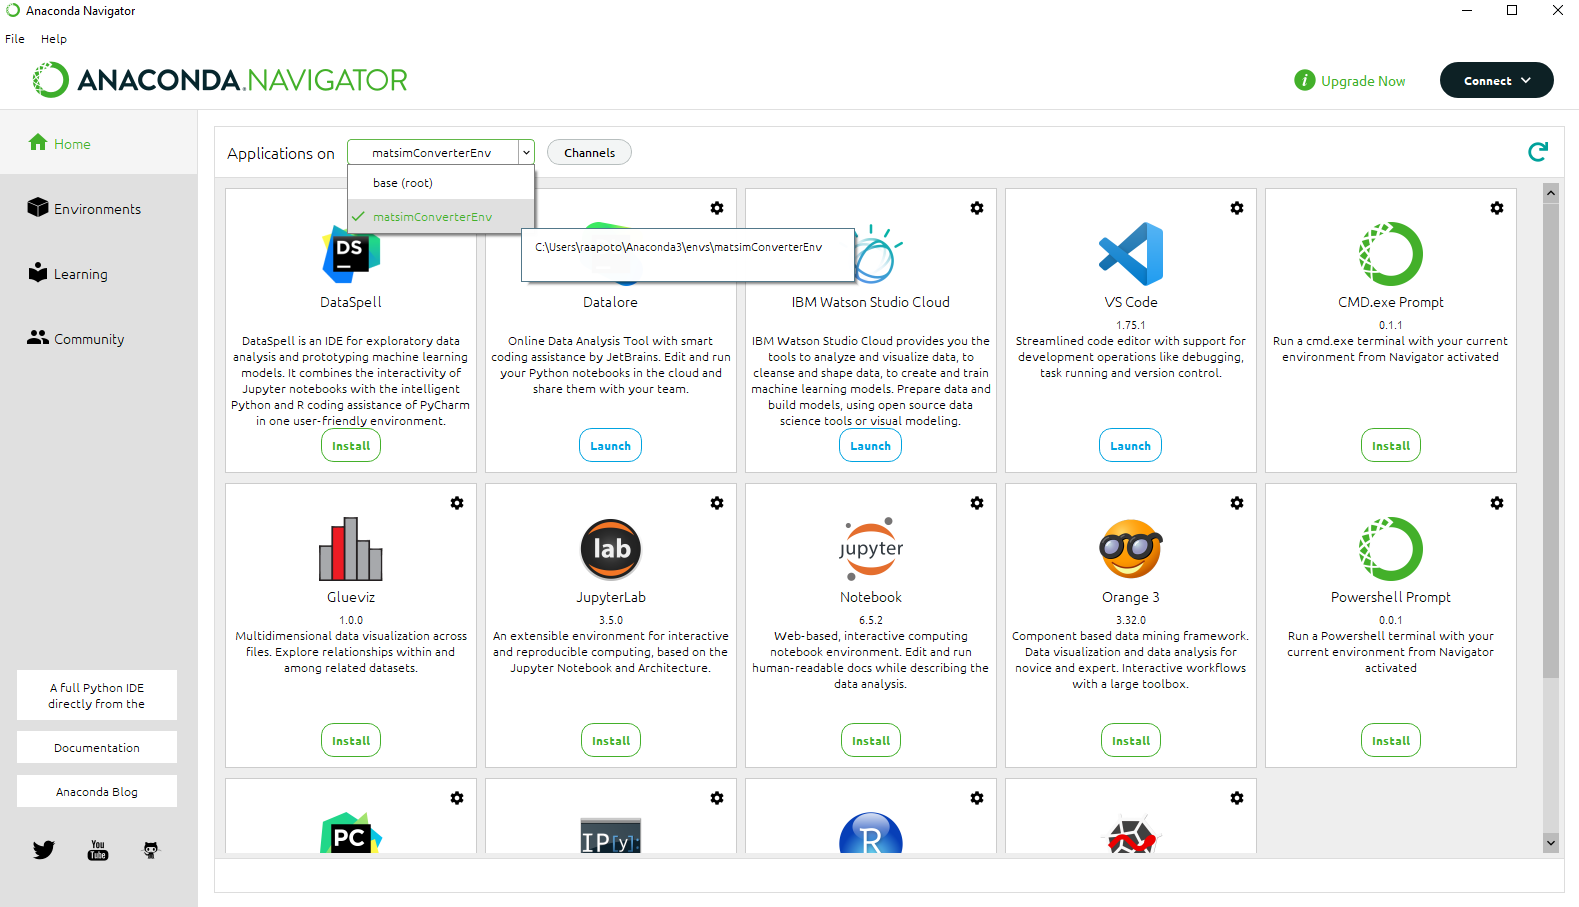
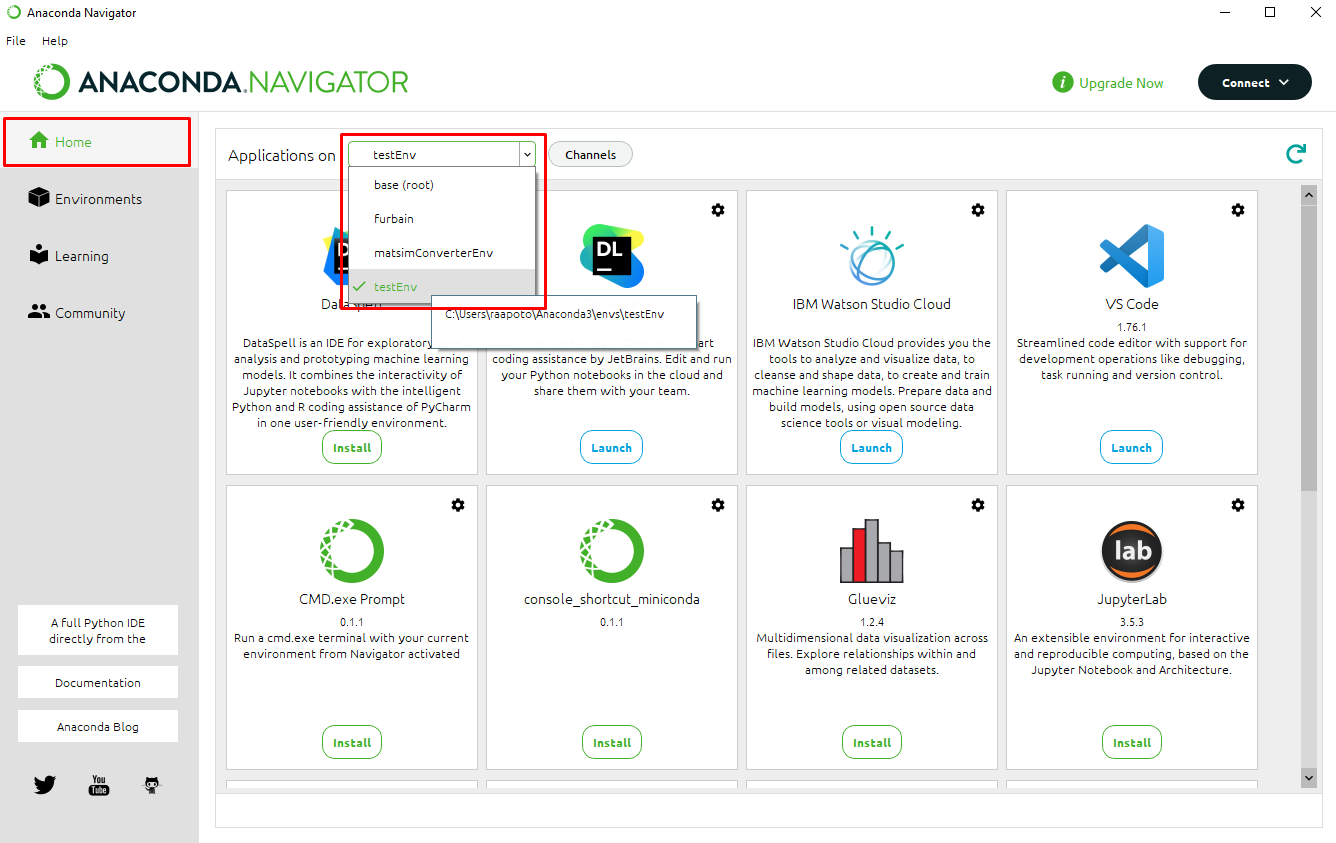
Updated the getting started section in the documentation

diff --git a/docs/getting-started.md b/docs/getting-started.md
@@ -54,7 +54,7 @@ ___
 
 {% endmethod %}
 
-#### Step 3: Create a database with a backup file
+#### Step 3: Create a database
 
 {% method %}
 
@@ -72,29 +72,6 @@ ___
 ![Postgre create database](https://raw.githubusercontent.com/gabRpt/matsim-output-postgreSQL-converter/main/resources/docs/getting-started/postgre_create_db_2.png)
 
 {% endmethod %}
-{% method %}
-
-* Right-click on the new database and select "Restore...".
-{% common %}
-![Postgre restore database](https://raw.githubusercontent.com/gabRpt/matsim-output-postgreSQL-converter/main/resources/docs/getting-started/postgre_restore_1.png)
-
-{% endmethod %}
-{% method %}
-
-* In the "Restore" window, select "Custom or tar" as the format and click in the field below to browse for the backup file.
-
-* Navigate to the directory where the backup file is located (./resources/setup/[databaseBackupPostgresCustom](https://github.com/gabRpt/matsim-output-postgreSQL-converter/blob/main/resources/setup/databaseBackupPostgresCustom "databaseBackupPostgresCustom")) and select the backup file.
-{% common %}
-![Postgre restore database](https://raw.githubusercontent.com/gabRpt/matsim-output-postgreSQL-converter/main/resources/docs/getting-started/postgre_restore_2.png)
-
-{% endmethod %}
-{% method %}
-
-* Click "Restore" to restore the database from the backup file.
-{% common %}
-![Postgre restore database](https://raw.githubusercontent.com/gabRpt/matsim-output-postgreSQL-converter/main/resources/docs/getting-started/postgre_restore_3.png)
-
-{% endmethod %}
 
 ___
 
@@ -108,10 +85,10 @@ ___
 
 * Open Anaconda Navigator and navigate to the `Environments` tab in the left panel.
 
-* Click on the `Import` button and select the matsimConverterEnv.yaml file located in the `./resources/setup/` folder of the cloned repository.
+* Click on the `Create` button and enter a name for the new environment.
 
 {% common %}
-![Anaconda import environment](https://raw.githubusercontent.com/gabRpt/matsim-output-postgreSQL-converter/main/resources/docs/getting-started/anaconda_import_env.png)
+![Anaconda create environment](https://raw.githubusercontent.com/gabRpt/matsim-output-postgreSQL-converter/main/resources/docs/getting-started/anaconda_create_env.png)
 {% endmethod %}
 
 {% method %}
@@ -124,8 +101,9 @@ ___
 
 {% endmethod %}
 {% method %}
+TODO MODIFIER LE PIP INSTALL
 
-* Open a terminal in the IDE and run the command `pip install ./resources/setup/matsim_tools-1.0.5-py3-none-any.whl` to install the required matsim_tools package. **Please verify that you are installing the lastest version available in ./resources/setup/**
+* Open a terminal in the IDE and run the command `pip install ./resources/setup/furbain-1.0.0-py3-none-any.whl` to install the required matsim_tools package. **Please verify that you are installing the lastest version available in ./resources/setup/**
 
 {% endmethod %}
 
